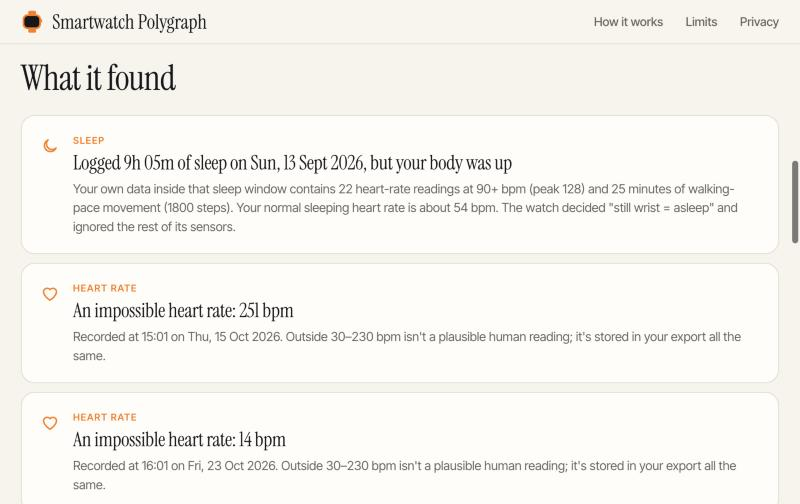
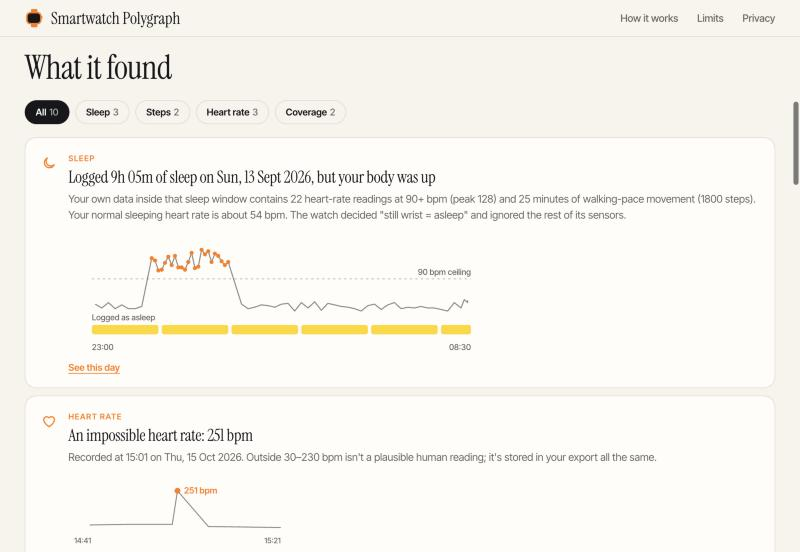
Richer results screen: own watch, finding charts, filters, day detail
The result is now the user's own watch with ring lengths from their
sub-scores. Each finding carries a chart built from their readings,
findings filter by category, and the calendar opens a per-day breakdown.
Analyzer now returns chart data and per-day detail.

diff --git a/index.html b/index.html
@@ -102,15 +102,15 @@ details ol{margin:10px 0 0;padding-left:20px}
 .chip.l{left:0}.chip.r{right:0}
 .chip b{display:flex;align-items:center;gap:6px;font-size:10.5px;letter-spacing:.08em;text-transform:uppercase;color:var(--muted);margin-bottom:3px;font-weight:600}
 .chip b i{width:7px;height:7px;border-radius:50%;display:block}
-.stage.go .strap-t{animation:dropT .9s var(--e) backwards}
-.stage.go .strap-b{animation:dropB .9s var(--e) backwards}
-.stage.go .case{animation:caseIn .9s var(--e) .1s backwards;transform-origin:180px 220px}
-.stage.go .crown{animation:crown .6s var(--e) .55s backwards}
-.stage.go .rg{animation:gather 1.1s var(--e) var(--dl) backwards;transform-origin:180px 220px}
-.stage.go .arc{animation:draw .9s var(--e) calc(var(--dl) + .45s) backwards}
-.stage.go .arc.hr{animation:draw .9s var(--e) calc(var(--dl) + .45s) backwards,glitch .6s steps(1) 2.55s}
-.stage.go #wscore{animation:fadeS .5s ease 1.5s backwards}
-.stage.go .chip{animation:pop .55s var(--e) var(--dl) backwards}
+.go .strap-t{animation:dropT .9s var(--e) backwards}
+.go .strap-b{animation:dropB .9s var(--e) backwards}
+.go .case{animation:caseIn .9s var(--e) .1s backwards;transform-origin:180px 220px}
+.go .crown{animation:crown .6s var(--e) .55s backwards}
+.go .rg{animation:gather 1.1s var(--e) var(--dl) backwards;transform-origin:180px 220px}
+.go .arc{animation:draw .9s var(--e) calc(var(--dl) + .45s) backwards}
+.go .arc.hr{animation:draw .9s var(--e) calc(var(--dl) + .45s) backwards,glitch .6s steps(1) 2.55s}
+.go .wscore{animation:fadeS .5s ease 1.5s backwards}
+.go .chip{animation:pop .55s var(--e) var(--dl) backwards}
 @keyframes dropT{from{transform:translateY(-90px);opacity:0}}
 @keyframes dropB{from{transform:translateY(90px);opacity:0}}
 @keyframes caseIn{from{transform:scale(.86);opacity:0}}
@@ -208,11 +208,7 @@ footer{margin-top:128px;border-top:1px solid var(--line)}
 /* results */
 #out{display:none}
 .panel{background:var(--card);border:1px solid var(--line);border-radius:var(--r)}
-.hero{display:flex;gap:52px;align-items:center;flex-wrap:wrap;padding:48px;margin-top:44px}
-.ring{position:relative;width:230px;height:230px;flex:none}
-.ring svg{transform:rotate(-90deg);width:100%;height:100%}
-.ring .n{position:absolute;inset:0;display:grid;place-items:center;font:400 96px/1 var(--serif);letter-spacing:-.03em}
-.ring .n small{display:block;font:600 11px var(--sans);letter-spacing:.09em;text-transform:uppercase;color:var(--muted);margin-top:4px;text-align:center}
+.hero{display:flex;gap:56px;align-items:center;flex-wrap:wrap;padding:40px 48px;margin-top:44px}
 .verdict{flex:1;min-width:250px;max-width:460px}
 .verdict .g{font:400 clamp(38px,5.4vw,58px)/1 var(--serif);letter-spacing:-.02em;margin:0}
 .verdict p{margin:12px 0 0;color:var(--muted)}
@@ -232,7 +228,7 @@ h2.rh{font:400 clamp(32px,4.4vw,46px)/1 var(--serif);letter-spacing:-.02em;margi
 .rc span.d{font-size:14.5px;color:var(--muted);line-height:1.5;display:block}
 .tag{font-size:11px;font-weight:600;letter-spacing:.09em;text-transform:uppercase;color:var(--orange);display:block;margin-bottom:4px}
 .heatwrap{padding:24px}
-.heat{display:grid;grid-auto-flow:column;grid-template-rows:repeat(7,16px);gap:4px;overflow-x:auto;padding-bottom:6px}
+.heat{display:grid;grid-auto-flow:column;grid-auto-columns:16px;justify-content:start;grid-template-rows:repeat(7,16px);gap:4px;overflow-x:auto;padding-bottom:6px}
 .heat i{width:16px;height:16px;border-radius:4px;background:var(--h0)}
 .legend{display:flex;gap:6px;align-items:center;font-size:12px;color:var(--muted);margin-top:12px;flex-wrap:wrap}
 .legend i{width:12px;height:12px;border-radius:3px;display:inline-block}
@@ -241,7 +237,39 @@ h2.rh{font:400 clamp(32px,4.4vw,46px)/1 var(--serif);letter-spacing:-.02em;margi
 .in{animation:up .6s cubic-bezier(.2,.8,.2,1) both}
 @keyframes up{from{opacity:0;transform:translateY(14px)}to{opacity:1;transform:none}}
 @media (prefers-reduced-motion:reduce){.in{animation:none}.btn,button,.card .m i{transition:none}html{scroll-behavior:auto}}
-@media (max-width:560px){.hero-t{padding-top:52px}.ring{width:190px;height:190px}.ring .n{font-size:78px}.hero{padding:30px 24px;gap:26px}.drop{padding:24px 22px}}
+@media (max-width:560px){.hero-t{padding-top:52px}.rwatch{width:190px}.hero{padding:30px 24px;gap:26px}.drop{padding:24px 22px}}
+
+/* results: own watch, filters, charts, day detail */
+.rwatch{width:250px;flex:none}
+.rwatch svg{width:100%;height:auto;display:block;filter:drop-shadow(0 24px 24px rgba(255,122,0,.22))}
+.keys{list-style:none;margin:18px 0 0;padding:0;display:flex;flex-wrap:wrap;gap:8px 18px;font-size:13px;color:var(--muted)}
+.keys li{display:flex;align-items:center;gap:7px}.keys i{width:9px;height:9px;border-radius:50%;display:block}.keys b{color:var(--ink);font-weight:600}
+.filters{display:flex;gap:8px;flex-wrap:wrap;margin:0 0 18px}
+.fb{font:600 13px/1 var(--sans);padding:9px 14px;border-radius:99px;background:transparent;color:var(--ink);border:1px solid var(--line)}
+.fb span{color:var(--muted);font-weight:500;margin-left:4px}
+.fb:hover{background:#f0ebe0}
+.fb.on,.fb.on:hover{background:var(--ink);color:#fff;border-color:var(--ink)}.fb.on span{color:rgba(255,255,255,.65)}
+.rc .body{flex:1;min-width:0}
+.cv{margin-top:16px;max-width:560px}
+.cv svg{width:100%;height:auto;display:block}
+.cv.bars{max-width:340px}
+.lnk{margin-top:14px;display:block;background:none;border:0;padding:0;color:var(--orange);font:600 13px var(--sans);cursor:pointer;text-decoration:underline;text-underline-offset:3px;border-radius:0}
+.lnk:hover{color:var(--ink);background:none}
+.heat .hd{width:16px;height:16px;border-radius:4px;border:0;padding:0;cursor:pointer;display:block}
+.heat .hd:hover{outline:2px solid var(--ink);outline-offset:1px;background-blend-mode:normal}
+.heat .hd.sel{outline:2px solid var(--ink);outline-offset:2px}
+.daydetail{margin-top:22px;padding-top:22px;border-top:1px solid var(--line)}
+.dd-h{display:flex;justify-content:space-between;align-items:baseline;gap:12px;margin-bottom:16px;flex-wrap:wrap}
+.dd-h b{font:400 28px/1.1 var(--serif);letter-spacing:-.01em}
+.dd-s{font-size:13px;color:var(--muted)}.dd-s strong{color:var(--ink);font-size:15px}
+.dd{display:grid;grid-template-columns:repeat(auto-fit,minmax(180px,1fr));gap:10px 24px;margin:0 0 16px}
+.dd div{border-top:1px solid var(--line);padding-top:8px}
+.dd dt{font-size:11px;letter-spacing:.08em;text-transform:uppercase;color:var(--muted);font-weight:600}
+.dd dd{margin:3px 0 0;font-size:14.5px}
+.dd-f{margin:0;padding:0;list-style:none;font-size:14.5px}
+.dd-f li{padding:8px 0;border-top:1px solid var(--line)}
+.dd-none{font-size:14px;color:var(--muted);margin:0}
+@media (max-width:560px){.hero{padding:28px 22px}.rwatch{width:170px}.rc>svg{display:none}.rc{padding:18px}}
 </style>
 </head>
 <body>
@@ -282,7 +310,7 @@ h2.rh{font:400 clamp(32px,4.4vw,46px)/1 var(--serif);letter-spacing:-.02em;margi
           <g class="rg" style="--dl:.68s"><g transform="rotate(-90 180 220)"><circle cx="180" cy="220" r="64" fill="none" stroke="rgba(255,255,255,.09)" stroke-width="11"/><circle class="arc" cx="180" cy="220" r="64" fill="none" stroke="#ff7a00" stroke-width="11" stroke-linecap="round" style="stroke-dasharray:402.12;--c:402.12;--off:164.87;stroke-dashoffset:164.87"/></g></g>
           <g class="rg" style="--dl:.81s"><g transform="rotate(-90 180 220)"><circle cx="180" cy="220" r="48" fill="none" stroke="rgba(255,255,255,.09)" stroke-width="11"/><circle class="arc hr" cx="180" cy="220" r="48" fill="none" stroke="#ff5a1f" stroke-width="11" stroke-linecap="round" style="stroke-dasharray:301.59;--c:301.59;--off:6.03;stroke-dashoffset:6.03"/></g></g>
           <g class="rg" style="--dl:.94s"><g transform="rotate(-90 180 220)"><circle cx="180" cy="220" r="32" fill="none" stroke="rgba(255,255,255,.09)" stroke-width="11"/><circle class="arc" cx="180" cy="220" r="32" fill="none" stroke="#ffb400" stroke-width="11" stroke-linecap="round" style="stroke-dasharray:201.06;--c:201.06;--off:10.05;stroke-dashoffset:10.05"/></g></g>
-          <text id="wscore" x="180" y="235" text-anchor="middle" fill="#f7f4ed" style="font:400 44px var(--serif)">87</text>
+          <text id="wscore" class="wscore" x="180" y="235" text-anchor="middle" fill="#f7f4ed" style="font:400 44px var(--serif)">87</text>
         </svg>
         <div class="chips">
           <div class="chip l" style="top:9%;--dl:2.7s"><b><i style="background:#ffd60a"></i>Sleep</b>22 readings over 90 bpm</div>
@@ -440,8 +468,9 @@ h2.rh{font:400 clamp(32px,4.4vw,46px)/1 var(--serif);letter-spacing:-.02em;margi
 
   <section id="out">
     <div class="panel hero in">
-      <div class="ring"><svg viewBox="0 0 200 200"><circle cx="100" cy="100" r="90" fill="none" stroke="var(--h0)" stroke-width="9"/><circle id="arc" cx="100" cy="100" r="90" fill="none" stroke="var(--orange)" stroke-width="9" stroke-linecap="round" stroke-dasharray="565.5" stroke-dashoffset="565.5"/></svg><div class="n"><div><span id="score">0</span><small>Trust score</small></div></div></div>
+      <div class="rwatch" id="rwatch"></div>
       <div class="verdict"><p class="g" id="grade"></p><p id="sum"></p><p class="s" id="span"></p>
+        <ul class="keys" id="keys"></ul>
         <div class="row" style="margin-top:22px"><button class="primary" id="share">Download share card</button><button class="ghost" id="again">Check another</button></div></div>
     </div>
 
@@ -449,12 +478,14 @@ h2.rh{font:400 clamp(32px,4.4vw,46px)/1 var(--serif);letter-spacing:-.02em;margi
     <div class="grid" id="cards"></div>
 
     <h2 class="rh">What it found</h2>
+    <div class="filters" id="filters"></div>
     <div id="receipts"></div>
 
     <h2 class="rh">Every day</h2>
-    <div class="panel heatwrap">
+    <div class="panel heatwrap" id="heatwrap">
       <div class="heat" id="heat" aria-label="Daily trust score calendar"></div>
-      <div class="legend"><i style="background:var(--h4)"></i>clean <i style="background:var(--h3)"></i><i style="background:var(--h2)"></i><i style="background:var(--h1)"></i>contradictory <i style="background:var(--h0);margin-left:8px"></i>no data</div>
+      <div class="legend"><i style="background:var(--h4)"></i>clean <i style="background:var(--h3)"></i><i style="background:var(--h2)"></i><i style="background:var(--h1)"></i>contradictory <i style="background:var(--h0);margin-left:8px"></i>no data · click a day</div>
+      <div class="daydetail" id="daydetail"></div>
     </div>
 
     <p class="panel note"><b>Read this as a data-quality check.</b> A flag means two of your signals disagree, not that your watch is wrong. It isn’t a medical device, and the thresholds are heuristics.</p>
@@ -592,18 +623,105 @@ async function run(file) {
 }
 
 const bucket = (s) => s === null ? 'var(--h0)' : s >= 92 ? 'var(--h4)' : s >= 80 ? 'var(--h3)' : s >= 65 ? 'var(--h2)' : 'var(--h1)';
+const RINGS = [[80, '#ffd60a', 'sleep', 'Sleep'], [64, '#ff7a00', 'steps', 'Steps'], [48, '#ff5a1f', 'hr', 'Heart rate'], [32, '#ffb400', 'coverage', 'Coverage']];
+const NAMES = { all: 'All', sleep: 'Sleep', steps: 'Steps', hr: 'Heart rate', coverage: 'Coverage' };
+const reduceMotion = matchMedia('(prefers-reduced-motion: reduce)').matches;
+const num = (n) => Math.round(n).toLocaleString('en-US');
+const hm = (t) => WearableTrust.hhmm(t);
+let FILTER = 'all';
+
+/* the user's own watch: ring length = their sub-score */
+function resultWatch(rep) {
+  const base = ['.strap-t', '.strap-b', '.crown', '.case'].map((q) => document.querySelector('#stage svg ' + q).outerHTML).join('');
+  const dl = [.55, .68, .81, .94], glitch = rep.facts.hrBlips + rep.facts.hrImpossible > 0;
+  const rings = RINGS.map(([r, col, k], i) => {
+    const sc = rep.scores[k], C = 2 * Math.PI * r, off = C * (1 - (sc == null ? 0 : sc / 100));
+    return `<g class="rg" style="--dl:${dl[i]}s"><g transform="rotate(-90 180 220)"><circle cx="180" cy="220" r="${r}" fill="none" stroke="rgba(255,255,255,.09)" stroke-width="11"/><circle class="arc${k === 'hr' && glitch ? ' hr' : ''}" cx="180" cy="220" r="${r}" fill="none" stroke="${col}" stroke-width="11" stroke-linecap="round" style="stroke-dasharray:${C.toFixed(2)};--c:${C.toFixed(2)};--off:${off.toFixed(2)};stroke-dashoffset:${off.toFixed(2)}"/></g></g>`;
+  }).join('');
+  const sc = Math.round(rep.scores.overall);
+  return `<svg viewBox="0 0 360 440" role="img" aria-label="Your watch. Trust score ${sc} out of 100.">${base}${rings}<text id="rscore" class="wscore" x="180" y="235" text-anchor="middle" fill="#f7f4ed" style="font:400 44px var(--serif)">${sc}</text></svg>`;
+}
+function countTo(el, target, delayMs, dur) {
+  const t0 = performance.now() + delayMs; el.textContent = '0';
+  (function f(now) { const p = Math.min(1, Math.max(0, (now - t0) / dur)); el.textContent = p < 1 ? Math.round(target * (1 - Math.pow(1 - p, 3))) : target; if (p < 1) requestAnimationFrame(f); })(performance.now());
+}
+
+/* mini charts, built from the user's own readings */
+function sleepChart(c) {
+  const W = 520, H = 150, L = 30, R = 6, T = 14, B = 44, span = c.e - c.s, xs = (t) => L + (t - c.s) / span * (W - L - R);
+  const vs = c.pts.length ? c.pts.map((p) => p[1]) : [60];
+  const lo = Math.min(40, Math.min(...vs) - 4), hi = Math.max(c.thr + 14, Math.max(...vs) + 6), ys = (v) => T + (1 - (v - lo) / (hi - lo)) * (H - T - B);
+  const line = c.pts.map((p) => `${xs(p[0]).toFixed(1)},${ys(p[1]).toFixed(1)}`).join(' ');
+  const hot = c.pts.filter((p) => p[1] >= c.thr).map((p) => `<circle cx="${xs(p[0]).toFixed(1)}" cy="${ys(p[1]).toFixed(1)}" r="2.6" fill="var(--orange)"/>`).join('');
+  const bar = c.blocks.map((b) => `<rect x="${xs(b[0]).toFixed(1)}" y="${H - B + 10}" width="${Math.max(1, xs(b[1]) - xs(b[0])).toFixed(1)}" height="12" rx="3" fill="var(--yellow)"/>`).join('');
+  const yt = ys(c.thr).toFixed(1);
+  return `<div class="cv"><svg viewBox="0 0 ${W} ${H}" role="img" aria-label="Heart rate across the night. Readings above ${c.thr} bpm are marked in orange."><line x1="${L}" x2="${W - R}" y1="${yt}" y2="${yt}" stroke="var(--muted)" stroke-dasharray="3 4" opacity=".6"/><text x="${W - R}" y="${yt - 5}" text-anchor="end" class="f-m">${c.thr} bpm ceiling</text>${line ? `<polyline points="${line}" fill="none" stroke="var(--ink)" stroke-width="1.4" opacity=".5" stroke-linejoin="round"/>` : ''}${hot}<text x="${L}" y="${H - B + 4}" class="f-m">Logged as asleep</text>${bar}<text x="${L}" y="${H - 2}" class="f-m">${hm(c.s)}</text><text x="${W - R}" y="${H - 2}" text-anchor="end" class="f-m">${hm(c.e)}</text></svg></div>`;
+}
+function blipChart(c) {
+  if (!c.pts.length) return '';
+  const W = 300, H = 96, L = 8, R = 8, T = 18, B = 24, x0 = c.at - 20, x1 = c.at + 20, xs = (t) => L + (t - x0) / (x1 - x0) * (W - L - R);
+  const vs = c.pts.map((p) => p[1]), lo = Math.min(...vs) - 6, hi = Math.max(...vs) + 6, ys = (v) => T + (1 - (v - lo) / (hi - lo)) * (H - T - B);
+  const mx = xs(c.at), my = ys(c.v), right = mx > W - 70;
+  return `<div class="cv" style="max-width:300px"><svg viewBox="0 0 ${W} ${H}" role="img" aria-label="Heart rate for 20 minutes either side of the reading of ${c.v} bpm"><polyline points="${c.pts.map((p) => `${xs(p[0]).toFixed(1)},${ys(p[1]).toFixed(1)}`).join(' ')}" fill="none" stroke="var(--ink)" stroke-width="1.4" opacity=".5" stroke-linejoin="round"/><circle cx="${mx.toFixed(1)}" cy="${my.toFixed(1)}" r="4" fill="var(--orange)"/><text x="${(mx + (right ? -9 : 9)).toFixed(1)}" y="${(my + 4).toFixed(1)}" text-anchor="${right ? 'end' : 'start'}" class="f-o" style="font-weight:600;font-size:12px">${c.v} bpm</text><text x="${L}" y="${H - 4}" class="f-m">${hm(x0)}</text><text x="${W - R}" y="${H - 4}" text-anchor="end" class="f-m">${hm(x1)}</text></svg></div>`;
+}
+function stepsChart(c) {
+  const g = Math.max(0, Math.min(100, c.dedup / c.raw * 100));
+  return `<div class="cv bars"><div class="bl"><span>In the export</span><b>${num(c.raw)}</b></div><div class="tr"><i class="g" style="width:${g.toFixed(1)}%"></i><i class="o" style="width:${(100 - g).toFixed(1)}%"></i></div><div class="bl"><span>What you walked</span><b>${num(c.dedup)}</b></div><div class="tr"><i class="g" style="width:${g.toFixed(1)}%"></i></div></div>`;
+}
+function gapChart(c) {
+  let h = '';
+  for (let d = 0; d < 5; d++) for (let k = 0; k < 24; k++) h += `<rect x="${k * 10}" y="${d * 11}" width="8" height="9" rx="2" fill="${k === c.hour && d !== 2 ? 'var(--h0)' : 'var(--yellow)'}"/>`;
+  return `<div class="cv" style="max-width:340px"><svg viewBox="0 0 240 70" role="img" aria-label="Five example days of hourly watch data with the ${String(c.hour).padStart(2, '0')}:00 hour empty">${h}<text x="0" y="68" class="f-m">00</text><text x="104" y="68" class="f-m">12</text><text x="214" y="68" class="f-m">23</text></svg></div>`;
+}
+function chartHTML(r) {
+  const c = r.chart; if (!c) return '';
+  return c.type === 'sleep' ? sleepChart(c) : c.type === 'blip' ? blipChart(c) : c.type === 'steps' ? stepsChart(c) : c.type === 'gaps' ? gapChart(c) : '';
+}
+function receiptCard(r, i) {
+  return `<div class="panel rc in" style="animation-delay:${Math.min(i, 8) * 40}ms">${icon(KIND_ICON[r.kind] || 'warn')}<div class="body"><span class="tag">${r.kind === 'hr' ? 'heart rate' : r.kind}</span><b>${esc(r.title)}</b><span class="d">${esc(r.detail)}</span>${chartHTML(r)}${r.day != null ? `<button type="button" class="lnk" data-day="${r.day}">See this day</button>` : ''}</div></div>`;
+}
+function renderReceipts() {
+  const rs = REPORT.receipts, counts = { all: rs.length };
+  rs.forEach((r) => { counts[r.kind] = (counts[r.kind] || 0) + 1; });
+  $('#filters').innerHTML = rs.length ? Object.keys(NAMES).filter((k) => counts[k]).map((k) => `<button type="button" class="fb${FILTER === k ? ' on' : ''}" data-k="${k}" aria-pressed="${FILTER === k}">${NAMES[k]}<span>${counts[k]}</span></button>`).join('') : '';
+  const list = rs.filter((r) => FILTER === 'all' || r.kind === FILTER);
+  $('#receipts').innerHTML = list.length ? list.map(receiptCard).join('') : '<p>Nothing contradictory found. Your watch is behaving.</p>';
+}
+
+/* calendar and day detail */
+function renderHeat() {
+  const d = REPORT.daily, pad = (new Date(d[0].day * 86400000).getUTCDay() + 6) % 7;
+  $('#heat').innerHTML = '<i style="visibility:hidden"></i>'.repeat(pad) + d.map((x, i) => {
+    const label = `${WearableTrust.fmtDay(x.day)}: ${x.score === null ? 'no data' : x.score + ' out of 100'}`;
+    return `<button type="button" class="hd" data-i="${i}" style="background:${bucket(x.score)}" aria-label="${esc(label)}" title="${esc(label)}"></button>`;
+  }).join('');
+  let worst = -1; d.forEach((x, i) => { if (x.score !== null && (worst < 0 || x.score < d[worst].score)) worst = i; });
+  if (worst >= 0) openDay(worst, false); else $('#daydetail').innerHTML = '';
+}
+function openDay(i, scroll) {
+  const x = REPORT.daily[i]; if (!x) return;
+  document.querySelectorAll('#heat .hd').forEach((b) => b.classList.toggle('sel', +b.dataset.i === i));
+  const fs = REPORT.receipts.filter((r) => r.day === x.day);
+  const sleep = x.sleepMin ? `${WearableTrust.fmtDur(x.sleepMin)} asleep, ${Math.round(x.sleepTrust * 100)}% trusted` : 'No sleep logged';
+  const steps = x.rawSteps ? (x.rawSteps > x.dedupSteps * 1.05 ? `${num(x.rawSteps)} in the export, ${num(x.dedupSteps)} real` : `${num(x.dedupSteps)} steps`) : 'No steps';
+  const hr = x.hrBad ? `${x.hrBad} suspect reading${x.hrBad > 1 ? 's' : ''}` : 'No suspect readings';
+  $('#daydetail').innerHTML = `<div class="dd-h"><b>${esc(WearableTrust.fmtDay(x.day))}</b><span class="dd-s">Day score <strong>${x.score === null ? 'n/a' : x.score}</strong> / 100</span></div>
+    <dl class="dd"><div><dt>Sleep</dt><dd>${sleep}</dd></div><div><dt>Steps</dt><dd>${steps}</dd></div><div><dt>Heart rate</dt><dd>${hr}</dd></div><div><dt>Watch data</dt><dd>${x.hours} of 24 hours</dd></div></dl>
+    ${fs.length ? `<ul class="dd-f">${fs.map((r) => `<li>${esc(r.title)}</li>`).join('')}</ul>` : '<p class="dd-none">No findings on this day.</p>'}`;
+  if (scroll) document.getElementById('heatwrap').scrollIntoView({ behavior: 'smooth', block: 'center' });
+}
+$('#filters').addEventListener('click', (e) => { const b = e.target.closest('.fb'); if (b) { FILTER = b.dataset.k; renderReceipts(); } });
+$('#receipts').addEventListener('click', (e) => { const b = e.target.closest('.lnk'); if (b) openDay(+b.dataset.day - REPORT.daily[0].day, true); });
+$('#heat').addEventListener('click', (e) => { const b = e.target.closest('.hd'); if (b) openDay(+b.dataset.i, false); });
 
 function render(rep) {
-  REPORT = rep;
+  REPORT = rep; FILTER = 'all';
   $('#landing').style.display = 'none'; $('#prog').style.display = 'none'; $('#out').style.display = 'block';
-  const sc = Math.round(rep.scores.overall);
-  const target = $('#score'); let cur = 0;
-  const step = () => { cur = Math.min(sc, cur + Math.max(1, Math.round(sc / 40))); target.textContent = cur; if (cur < sc) requestAnimationFrame(step); };
-  step();
-  const arc = $('#arc');
-  arc.style.transition = 'stroke-dashoffset 1.2s cubic-bezier(.2,.8,.2,1)'; requestAnimationFrame(() => arc.setAttribute('stroke-dashoffset', 565.5 * (1 - sc / 100)));
+  const sc = Math.round(rep.scores.overall), f = rep.facts;
+  const rw = $('#rwatch'); rw.innerHTML = resultWatch(rep); rw.classList.remove('go');
+  if (!reduceMotion) { void rw.offsetWidth; rw.classList.add('go'); countTo($('#rscore'), sc, 1700, 800); }
   $('#grade').textContent = rep.grade;
-  const f = rep.facts;
+  $('#keys').innerHTML = RINGS.map(([, col, k, name]) => `<li><i style="background:${col}"></i>${name} <b>${rep.scores[k] == null ? 'n/a' : Math.round(rep.scores[k])}</b></li>`).join('');
   $('#sum').textContent = f.nights ? `${f.flaggedNights} of ${f.nights} nights of sleep are contradicted by your own data.` : 'Not enough sleep data to check nights.';
   $('#span').textContent = `${rep.span.from} to ${rep.span.to} · ${rep.span.days} days · ${(rep.counts.hr + rep.counts.steps + rep.counts.sleep).toLocaleString()} records checked`;
 
@@ -619,14 +737,7 @@ function render(rep) {
   }).join('');
   requestAnimationFrame(() => requestAnimationFrame(() => document.querySelectorAll('.card .m i').forEach((el) => { el.style.width = el.dataset.w + '%'; })));
 
-  $('#receipts').innerHTML = rep.receipts.length
-    ? rep.receipts.map((r, i) => `<div class="panel rc in" style="animation-delay:${i * 40}ms">${icon(KIND_ICON[r.kind] || 'warn')}<div><span class="tag">${r.kind === 'hr' ? 'heart rate' : r.kind}</span><b>${esc(r.title)}</b><span class="d">${esc(r.detail)}</span></div></div>`).join('')
-    : '<p>Nothing contradictory found. Your watch is behaving.</p>';
-
-  const d = rep.daily, first = new Date(d[0].day * 86400000).getUTCDay();
-  const pad = (first + 6) % 7;
-  $('#heat').innerHTML = '<i style="visibility:hidden"></i>'.repeat(pad) + d.map((x) =>
-    `<i style="background:${bucket(x.score)}" title="${esc(WearableTrust.fmtDay(x.day))}: ${x.score === null ? 'no data' : x.score}"></i>`).join('');
+  renderReceipts(); renderHeat();
   window.scrollTo({ top: 0, behavior: 'smooth' });
 }
 

diff --git a/analyzer.js b/analyzer.js
@@ -124,6 +124,7 @@
 
       const receipts = [];
       const dayOf = (m) => Math.floor(m / DAY) - firstDay;
+      const around = (m, w) => { const out = []; for (let i = lowerBound(ht, m - w); i < n && ht[i] <= m + w; i++) out.push([ht[i], Math.round(hv[i])]); return out; };
 
       /* ===== heart rate plausibility ===== */
       const dayBad = new Int32Array(nDays);
@@ -144,13 +145,13 @@
       const hrScore = n >= 100 ? clamp(100 - (hrBad / n) * 4000, 0, 100) : null;
       blipEv.sort((a, b) => Math.abs(b.v - (b.p + b.nx) / 2) - Math.abs(a.v - (a.p + a.nx) / 2));
       for (const b of blipEv.slice(0, 2)) receipts.push({
-        kind: 'hr', severity: 62, date: fmtDay(Math.floor(b.m / DAY)),
+        kind: 'hr', severity: 62, date: fmtDay(Math.floor(b.m / DAY)), day: Math.floor(b.m / DAY), chart: { type: 'blip', at: b.m, v: Math.round(b.v), pts: around(b.m, 20) },
         title: `Heart rate "jumped" to ${Math.round(b.v)} bpm for a single reading`,
         detail: `At ${hhmm(b.m)} on ${fmtDay(Math.floor(b.m / DAY))} it read ${Math.round(b.p)}, then ${Math.round(b.v)}, then ${Math.round(b.nx)} bpm within minutes, outside any workout. A physiological spike doesn't reverse itself that fast; this is a sensor glitch (usually a loose strap).`
       });
       impEv.sort((a, b) => Math.abs(b.v - 130) - Math.abs(a.v - 130));
       for (const b of impEv.slice(0, 2)) receipts.push({
-        kind: 'hr', severity: 72, date: fmtDay(Math.floor(b.m / DAY)),
+        kind: 'hr', severity: 72, date: fmtDay(Math.floor(b.m / DAY)), day: Math.floor(b.m / DAY), chart: { type: 'blip', at: b.m, v: Math.round(b.v), pts: around(b.m, 20) },
         title: `An impossible heart rate: ${Math.round(b.v)} bpm`,
         detail: `Recorded at ${hhmm(b.m)} on ${fmtDay(Math.floor(b.m / DAY))}. Outside 30–230 bpm isn't a plausible human reading; it's stored in your export all the same.`
       });
@@ -178,6 +179,7 @@
 
       let sleepNum = 0, sleepDen = 0, flaggedNights = 0;
       const sleepPenByDay = new Map();
+      const sleepInfoByDay = new Map();
       for (const ss of scored) {
         let hrN = 0, hrElev = 0, hrPeak = 0;
         const elev = new Set(), walk = new Set();
@@ -204,6 +206,8 @@
         sleepNum += trust * ss.asleepMin; sleepDen += ss.asleepMin;
         const wakeDi = Math.floor(ss.e / DAY) - firstDay;
         sleepPenByDay.set(wakeDi, Math.max(sleepPenByDay.get(wakeDi) || 0, 1 - trust));
+        const prevInfo = sleepInfoByDay.get(wakeDi);
+        if (!prevInfo || ss.asleepMin > prevInfo.asleepMin) sleepInfoByDay.set(wakeDi, { trust, asleepMin: ss.asleepMin });
         if (trust < 0.8) {
           flaggedNights++;
           const main = pens.slice().sort((a, b) => b.pen - a.pen)[0].key;
@@ -225,7 +229,12 @@
             title = `${dur} of sleep on ${day} without any heart-rate data`;
             detail = `A watch logged the sleep, but only ${hrN} pulse readings exist in that window. Nothing corroborates it.`;
           }
-          receipts.push({ kind: 'sleep', severity: Math.round((1 - trust) * 100), date: day, title, detail });
+          const pts = [];
+          for (let i = lowerBound(ht, ss.s); i < n && ht[i] < ss.e; i++) pts.push([ht[i], Math.round(hv[i])]);
+          const stp = Math.max(1, Math.ceil(pts.length / 160));
+          const chart = { type: 'sleep', s: ss.s, e: ss.e, thr: Math.round(thr), peak: Math.round(hrPeak),
+            pts: pts.filter((p, i) => i % stp === 0 || p[1] >= thr), blocks: ss.blocks.map((b) => [b.s, b.e]) };
+          receipts.push({ kind: 'sleep', severity: Math.round((1 - trust) * 100), date: day, day: wakeDi + firstDay, title, detail, chart });
         }
       }
       const sleepScore = sleepDen ? (sleepNum / sleepDen) * 100 : null;
@@ -251,7 +260,7 @@
       }
       stepDays.sort((a, b) => b.raw - b.dedup - (a.raw - a.dedup));
       for (const d of stepDays.slice(0, 3)) receipts.push({
-        kind: 'steps', severity: Math.round(Math.min(100, d.f * 100)), date: fmtDay(d.di + firstDay),
+        kind: 'steps', severity: Math.round(Math.min(100, d.f * 100)), date: fmtDay(d.di + firstDay), day: d.di + firstDay, chart: { type: 'steps', raw: Math.round(d.raw), dedup: Math.round(d.dedup) },
         title: `${Math.round(d.raw).toLocaleString('en-US')} steps on ${fmtDay(d.di + firstDay)}, but you only moved ${Math.round(d.dedup).toLocaleString('en-US')}`,
         detail: `Phone and watch both recorded the same walking, so the raw export overstates the day by ${Math.round(d.f * 100)}%. Apple's own Health app de-duplicates this, but anyone analysing the raw export (apps, researchers, clinical pipelines) doesn't.`
       });
@@ -290,13 +299,13 @@
           darkRuns.push({ from: dark[i], len: j - i + 1 }); i = j + 1;
         }
         if (recurring) receipts.push({
-          kind: 'coverage', severity: 45, date: '',
+          kind: 'coverage', severity: 45, date: '', day: null, chart: { type: 'gaps', hour: recurring.hour },
           title: `Your watch goes dark around ${String(recurring.hour).padStart(2, '0')}:00 on ${recurring.days} of ${recurring.of} days`,
           detail: `That's the charging window. It silently removes about ${(hoursLost / coverageDays).toFixed(1)} h/day from your record, and anything computed per-day (average heart rate, active time) is computed over a different slice of the day each time.`
         });
         darkRuns.sort((a, b) => b.len - a.len);
         for (const r of darkRuns.slice(0, 1)) receipts.push({
-          kind: 'coverage', severity: 55, date: fmtDay(r.from + firstDay),
+          kind: 'coverage', severity: 55, date: fmtDay(r.from + firstDay), day: r.from + firstDay,
           title: `${r.len} day${r.len > 1 ? 's' : ''} of nothing starting ${fmtDay(r.from + firstDay)}`,
           detail: `No heart-rate data at all. In a daily summary these days look like "0", not "missing", unless the reader knows to check.`
         });
@@ -306,12 +315,14 @@
       const daily = [];
       for (let di = 0; di < nDays; di++) {
         const c = covByDay.get(di); // keyed by day index relative to firstDay
-        if (c === undefined) { daily.push({ day: firstDay + di, score: null }); continue; }
+        if (c === undefined) { daily.push({ day: firstDay + di, score: null, hours: 0, rawSteps: Math.round(dayRaw[di]), dedupSteps: Math.round(dayDedup[di]), hrBad: dayBad[di], sleepMin: 0, sleepTrust: null }); continue; }
         const sp = (sleepPenByDay.get(di) || 0) * 40;
         const tp = stepPenByDay.get(di) || 0;
         const hp = Math.min(20, dayBad[di] * 8);
         const cp = (1 - Math.min(1, c / 18)) * 30;
-        daily.push({ day: firstDay + di, score: Math.round(clamp(100 - sp - tp - hp - cp, 0, 100)) });
+        const si = sleepInfoByDay.get(di);
+        daily.push({ day: firstDay + di, score: Math.round(clamp(100 - sp - tp - hp - cp, 0, 100)), hours: c, rawSteps: Math.round(dayRaw[di]), dedupSteps: Math.round(dayDedup[di]),
+          hrBad: dayBad[di], sleepMin: si ? Math.round(si.asleepMin) : 0, sleepTrust: si ? si.trust : null });
       }
 
       /* ===== overall ===== */
@@ -344,5 +355,5 @@
     return { addRecord, addWorkout, finish, counts };
   }
 
-  return { createAnalyzer, createParser, fmtDay, fmtDur };
+  return { createAnalyzer, createParser, fmtDay, fmtDur, hhmm };
 });

diff --git a/README.md b/README.md
@@ -24,7 +24,16 @@ Polygraph doesn't need a ground-truth device to catch this. It looks for places 
 | Heart rate | Readings outside 30–230 bpm, single-reading spikes outside workouts | "71, then 184, then 73 bpm within minutes" |
 | Coverage | Recurring charging gaps and days with no data | "Your watch goes dark around 07:00 on 25 of 61 days" |
 
-![A list of findings, each with a date, a plain-language title and the evidence](docs/findings.jpg)
+## The results screen
+
+Your own watch is the result: each ring is as long as its sub-score, and the number in the middle is the overall score.
+
+![The result: a watch whose four rings show the sleep, steps, heart-rate and coverage scores](docs/results.jpg)
+
+- **Findings** are dated and come with a chart drawn from your own readings: the night's heart rate against its sleeping ceiling, the single reading and the minutes around it, or the raw step total against what you actually walked. Filter them by sleep, steps, heart rate or coverage.
+- **Every day** is a calendar coloured by day score. Click a day to see its sleep, steps, heart rate, hours of watch data and any findings. **See this day** on a finding jumps straight to it.
+
+![Findings with charts and category filters](docs/findings.jpg)
 
 ## How the score works
 
